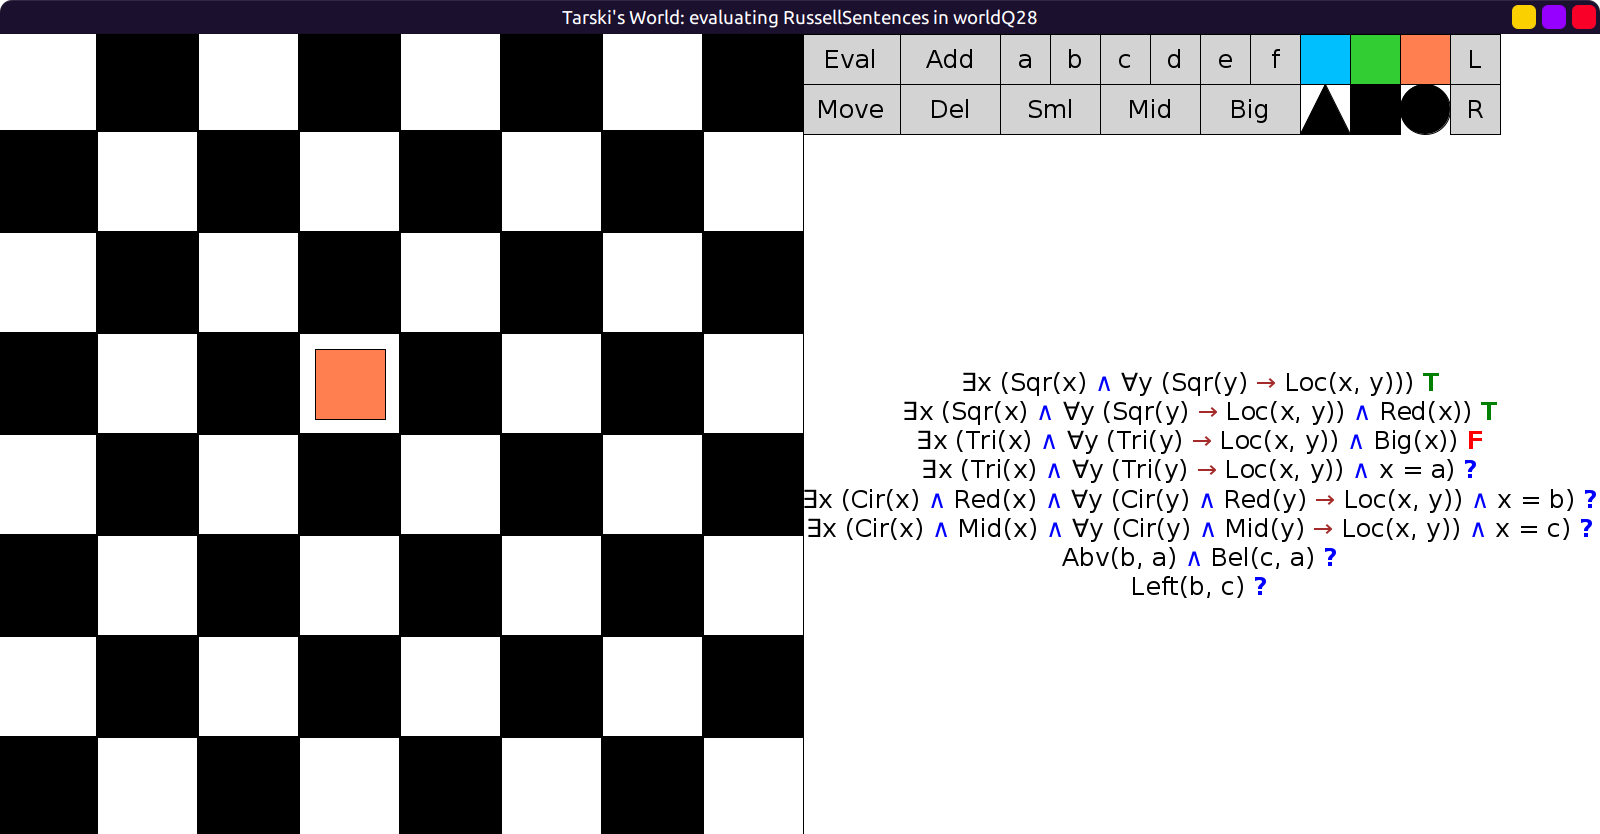
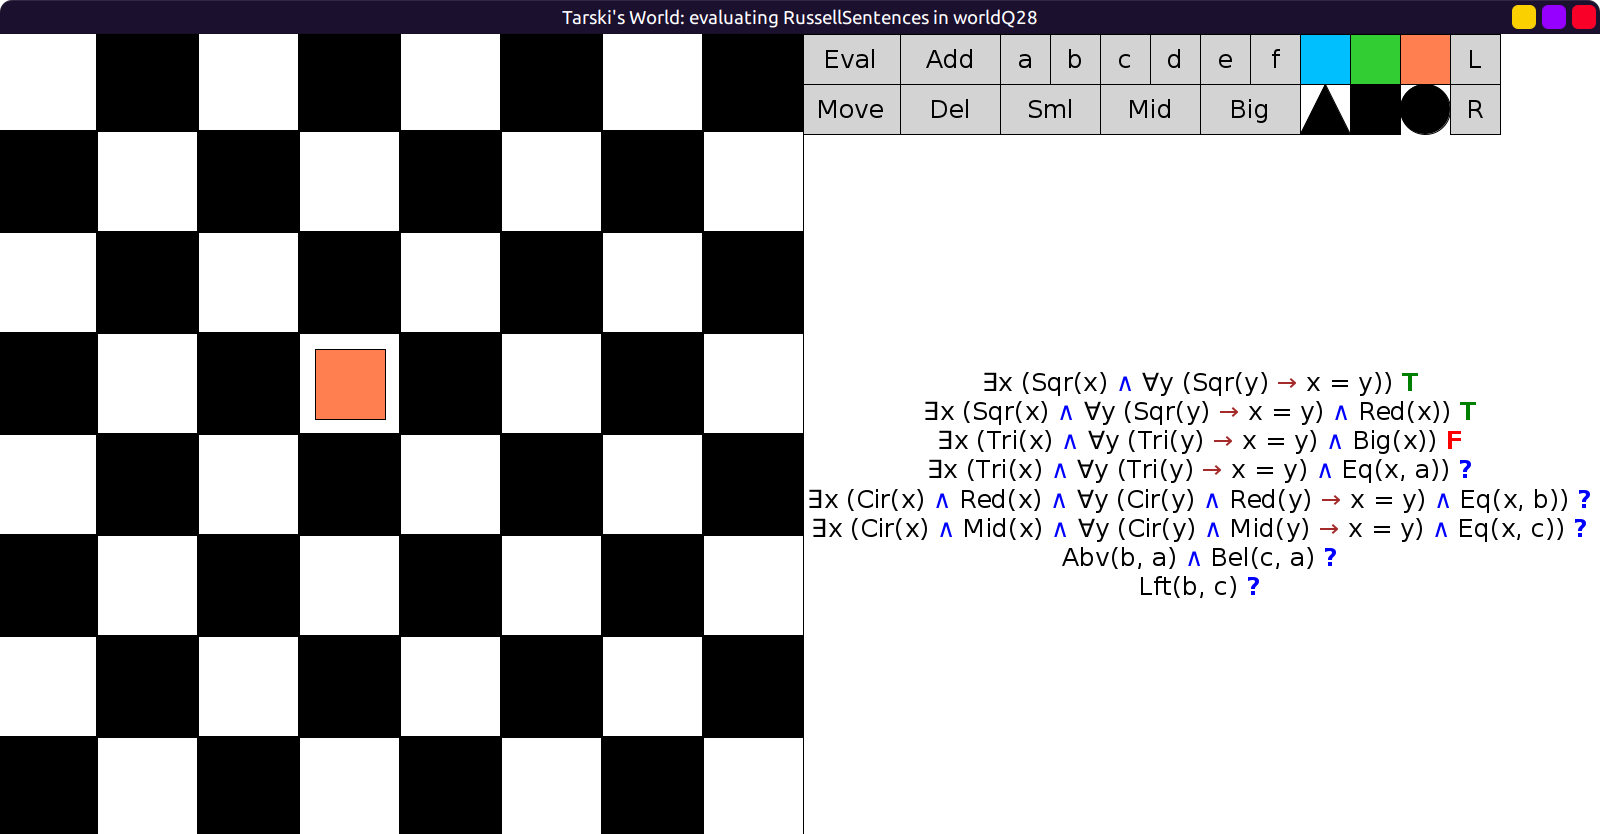
rework ex q28

Changed region(s): [[0.5, 0.4365, 1.0, 0.6547], [0.7188, 0.6859, 0.8125, 0.717]]

diff --git a/examples/quantifier-logic/28/README.md b/examples/quantifier-logic/28/README.md
@@ -14,8 +14,10 @@ or if there is more than one, or if there is exactly one, but it's not red.
 If this analysis is correct (and many do not think it is),
 then such sentences can easily be expressed in first-order logic.
 
-In Example Q27 we saw two ways for saying that there is a single circle
-(sentences 10 and 13).
+In Example Q27 we saw two ways (sentences 10 and 12)
+for saying that there is a single circle.
+One uses: ∃y ∀x (Cir(x) ↔ x = y)
+The other uses: ∃x (Cir(x) ∧ ∀y (Cir(y) → x = y))
 
 - Open `RussellSentences` in an empty world.
 - The first sentence uses the second method to assert that there is a single square.
@@ -33,9 +35,19 @@ then expressed it with an atomic formula.
 If we fully wrote it out long hand, without resorting to named objects, it would be:
 
 ∃x (
-  (Cir(x) ∧ Red(x)) ∧ ∀y ((Cir(y) ∧ Red(y)) → x = y) "x is the (unique) red circle"
+  (Cir(x) ∧ Red(x)) ∧ ∀y ((Cir(y) ∧ Red(y)) → x = y)   "x is the (unique) red circle"
   ∧ ∃z (
     (Cir(z) ∧ Mid(z)) ∧ ∀u ((Cir(u) ∧ Mid(u)) → z = u) "z is the (unique) mid circle"
-    ∧ Lft(x, z)  "the red circle is to the left of the mid circle"
+    ∧ Lft(x, z)                      "the red circle is to the left of the mid circle"
   )
 )
+
+## Historical: who was Bertrand Russell?
+
+English mathematician, logician, philosopher (1872 - 1970)
+
+Major contributions to many fields, co-authored Principia Mathematica.
+
+Won Nobel prize in literature. Teacher of Wittgenstein.
+
+<https://en.wikipedia.org/wiki/Bertrand_Russell>
